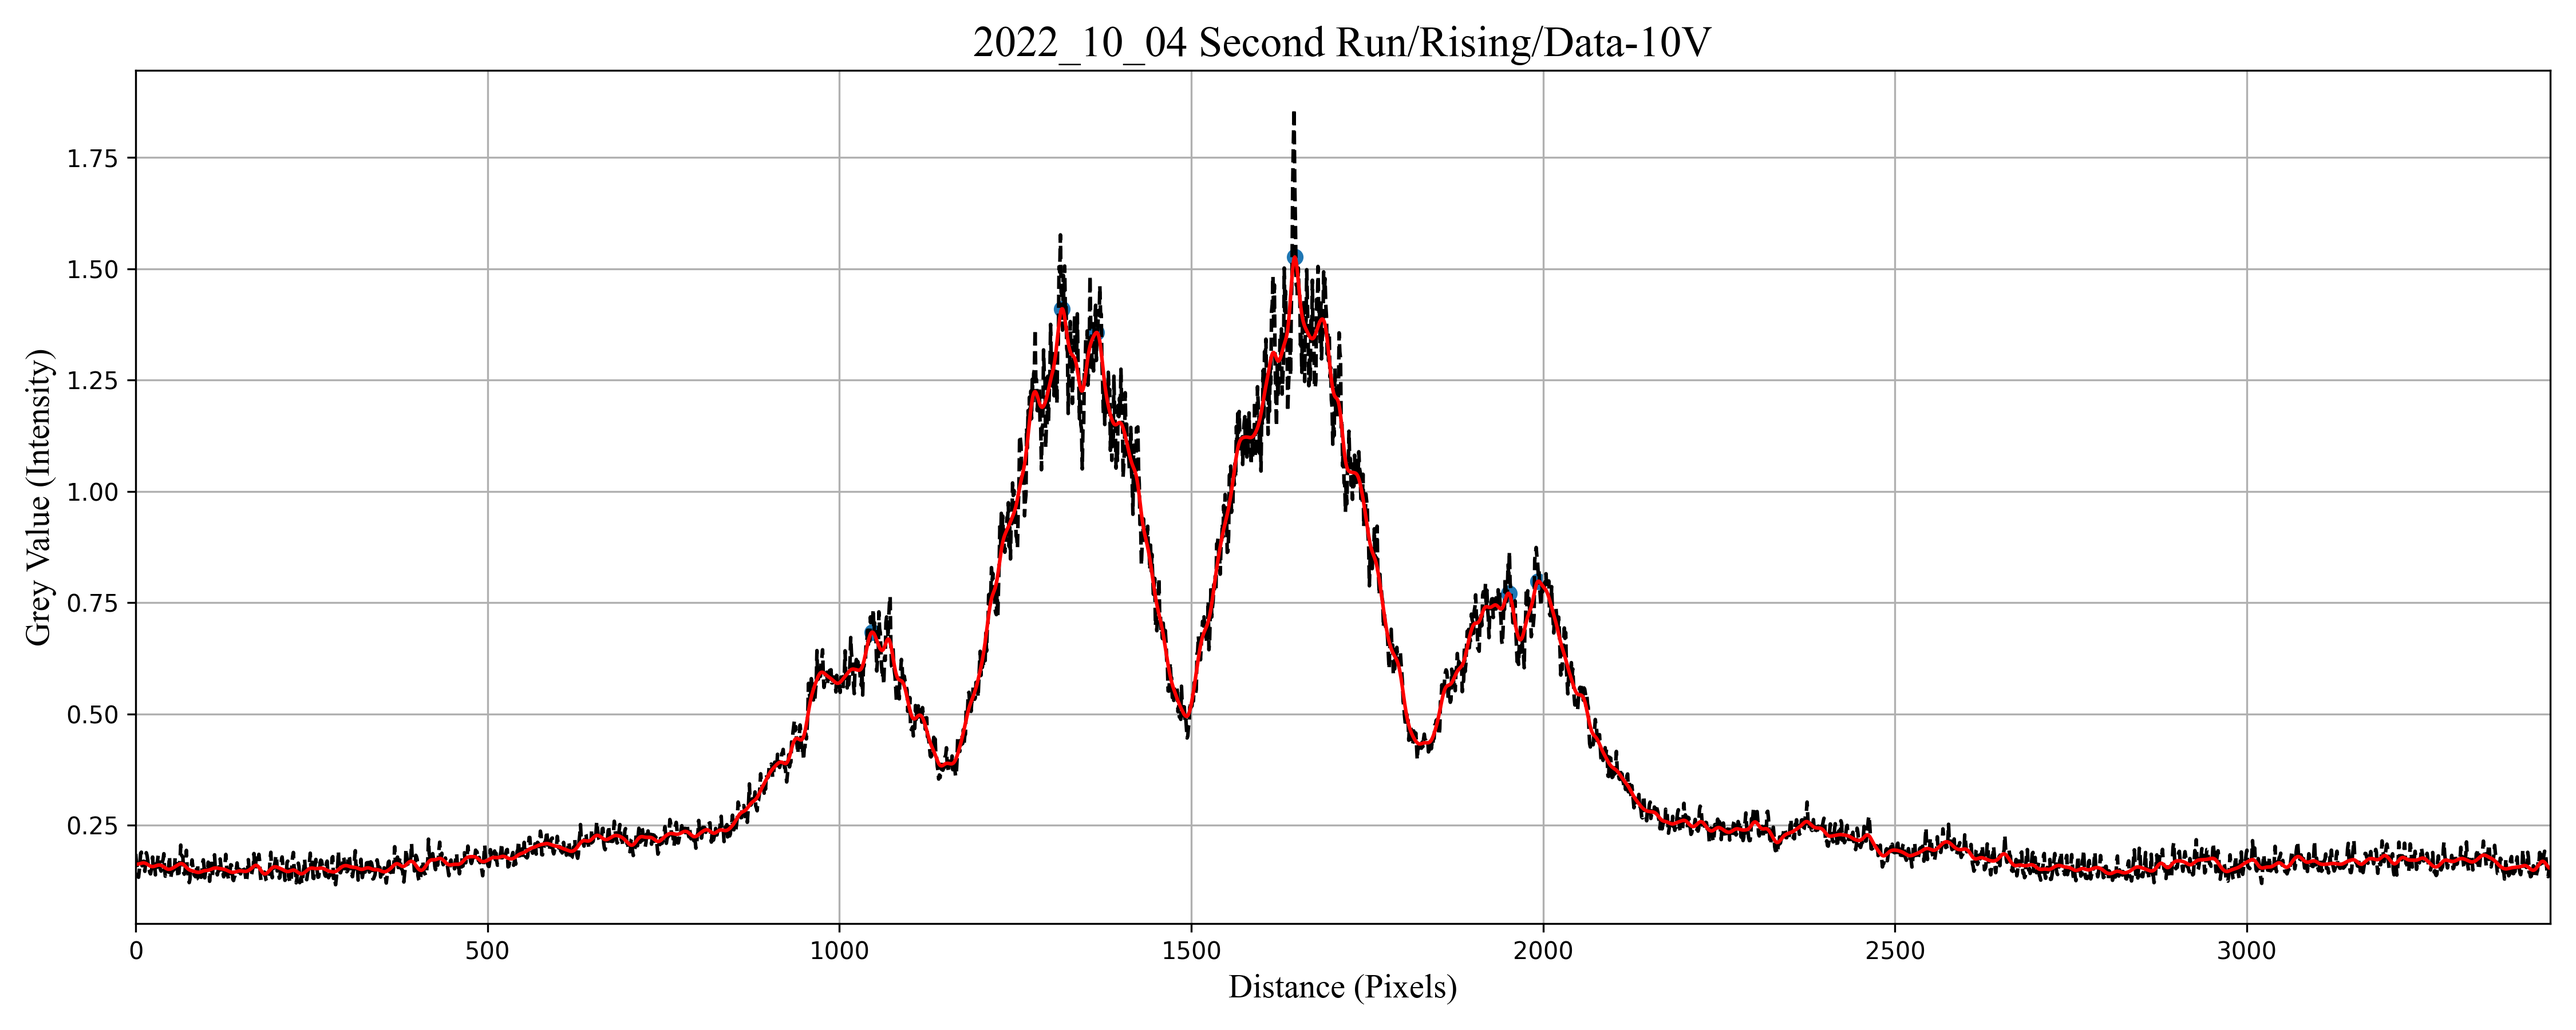
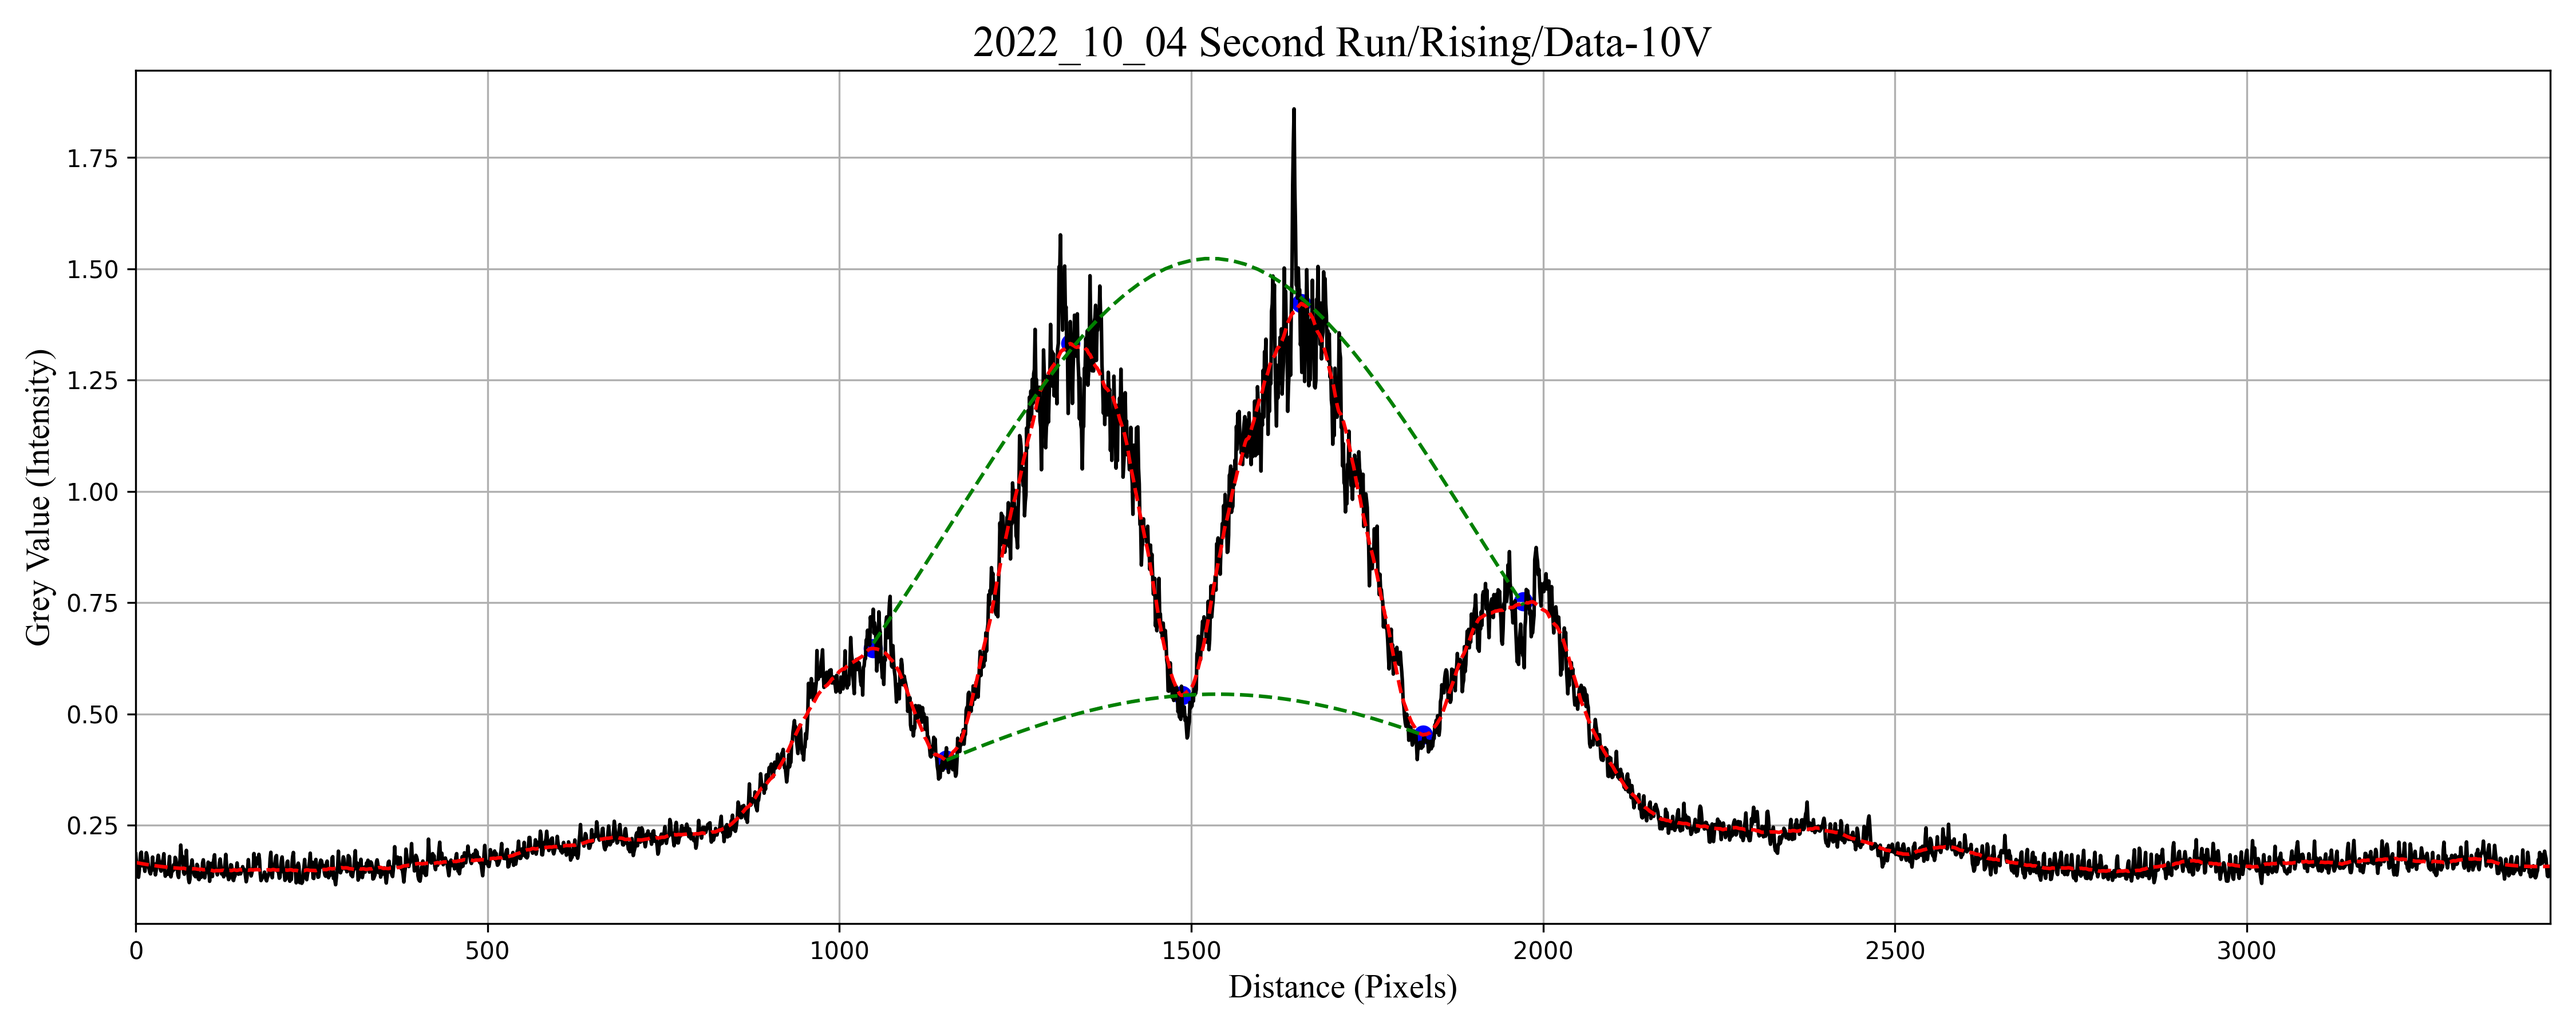
Gaussian fits

diff --git a/TVHolography.py b/TVHolography.py
@@ -11,7 +11,8 @@ import matplotlib.pyplot as plt
 from Parameters import SAVGOL_FILTER_PARAMETERS_1,\
         SAVGOL_FILTER_PARAMETERS_2, PEAK_PROMINENCE
 from Functions import read_data, find_peaks,\
-        filter_peaks, find_linear_parameters
+        filter_peaks, find_linear_parameters,\
+        fit_gaussian
 from scipy.optimize import curve_fit
 
 FILENAME_1 = "2022_10_04 Second Run/Rising/Data/"
@@ -33,8 +34,6 @@ def draw_plot(title, data, savgol_parameter, filename,
     axs.set_ylabel(Y_VARIABLE, fontsize=14, fontfamily='times new roman')
     axs.set_title(filename[: -1] + "-" + title + "V", fontsize=18,
                      fontfamily='times new roman')
-    # axs[1].set_title(title + 'V filtered with peaks', fontsize=18,
-    #                  fontfamily='times new roman')
 
     axs.plot(data[:, 0], data[:, 1], 'k')
     peaks, filtered_data = find_peaks(data, savgol_parameter, peak_prominence)
@@ -49,7 +48,9 @@ def draw_plot(title, data, savgol_parameter, filename,
     axs.scatter(filtered_peaks, filtered_data[filtered_peaks], c='b', s=50)
     axs.scatter(filtered_troughs, filtered_data[filtered_troughs], c='b', s=50)
 
-    fit_gaussian(filtered_peaks, filtered_data[filtered_peaks], axs)
+    if len(filtered_peaks) > 3 or len(filtered_troughs) > 3:
+        fit_gaussian(filtered_peaks, filtered_data[filtered_peaks], axs)
+        fit_gaussian(filtered_troughs, filtered_data[filtered_troughs], axs)
 
     peak_diff = np.diff(filtered_peaks)
 
@@ -58,34 +59,17 @@ def draw_plot(title, data, savgol_parameter, filename,
     # print(np.std(peak_diff) / np.sqrt(len(peak_diff)))
 
     axs.grid()
-    # axs[1].grid()
 
     axs.set_xlim((np.min(data[:, 0]), np.max(data[:, 0])))
-    # axs[1].set_xlim((np.min(data[:, 0]), np.max(data[:, 0])))
 
     plt.tight_layout()
-    # plt.savefig(save_folder + title, dpi=300, transparent=False)
-    plt.show()
+    plt.savefig(save_folder + title, dpi=300, transparent=False)
+    plt.close()
+    # plt.show()
 
     return np.array((int(title), 1 / np.average(peak_diff),
                     (1 / (np.average(peak_diff) ** 2))
                     * np.std(peak_diff) / np.sqrt(len(peak_diff))))
-
-def fit_gaussian(x_data, y_data, axis):
-    print(x_data)
-    print(y_data)
-    mu_guess = np.average(x_data)
-    std_guess = 1000
-    param, _ = curve_fit(gaussian_curve, x_data, y_data,
-                         p0=[std_guess, mu_guess], maxfev=5000)
-    # uncertainty = np.sqrt(np.diagonal(cov))
-
-    axis.plot(x_data, gaussian_curve(x_data, *param), 'b--')
-
-def gaussian_curve(x_data, sigma, mu):
-    norm = 1 / (sigma * np.sqrt(2 * np.pi))
-    exponent = -0.5 * ((x_data - mu) / sigma) ** 2
-    return norm * np.exp(exponent)
 
 def plot_averages(data_1, data_2, save_folder):
     fig, axs = plt.subplots(1, 1)
@@ -142,7 +126,7 @@ def main():
     averages_1 = np.empty((0, 3))
     averages_2 = np.empty((0, 3))
 
-    for data in all_data_1[2:3]:
+    for data in all_data_1:
         if len(data[1]) > 0:
             averages_1 = np.vstack((averages_1, draw_plot(data[0], data[1],
                                     SAVGOL_FILTER_PARAMETERS_1[data[0]],
@@ -151,17 +135,17 @@ def main():
         else:
             print("No (valid) files provided, ending program")
 
-    # for data in all_data_2:
-    #     if len(data[1]) > 0:
-    #         averages_2 = np.vstack((averages_2, draw_plot(data[0], data[1],
-    #                                 SAVGOL_FILTER_PARAMETERS_2[data[0]],
-    #                                 FILENAME_2, SAVE_FOLDER_2,
-    #                                 PEAK_PROMINENCE["Decreasing"])))
-    #     else:
-    #         print("No (valid) files provided, ending program")
+    for data in all_data_2:
+        if len(data[1]) > 0:
+            averages_2 = np.vstack((averages_2, draw_plot(data[0], data[1],
+                                    SAVGOL_FILTER_PARAMETERS_2[data[0]],
+                                    FILENAME_2, SAVE_FOLDER_2,
+                                    PEAK_PROMINENCE["Decreasing"])))
+        else:
+            print("No (valid) files provided, ending program")
 
-    # plot_averages(np.sort(averages_1, axis=0),
-    #               np.sort(averages_2, axis=0), SAVE_FOLDER_AVERAGES)
+    plot_averages(np.sort(averages_1, axis=0),
+                  np.sort(averages_2, axis=0), SAVE_FOLDER_AVERAGES)
 
 
 main()

diff --git a/Functions.py b/Functions.py
@@ -68,3 +68,19 @@ def find_linear_parameters(data):
 
 def gaussian_smooth_filter(y_data, sigma):
     return gaussian_filter(y_data, sigma)
+
+
+def fit_gaussian(x_data, y_data, axis):
+    mu_guess = np.average(x_data)
+    std_guess = 100
+    param, _ = curve_fit(gaussian_curve, x_data, y_data,
+                         p0=[1.5, std_guess, mu_guess])
+    # uncertainty = np.sqrt(np.diagonal(cov))
+
+    axis.plot(np.linspace(np.min(x_data), np.max(x_data)),
+              gaussian_curve(np.linspace(np.min(x_data), np.max(x_data)), *param), 'g--')
+    return
+
+def gaussian_curve(x_data, A, sigma, mu):
+    exponent = - (x_data - mu) ** 2 / (2 * sigma ** 2)
+    return A * np.exp(exponent)
